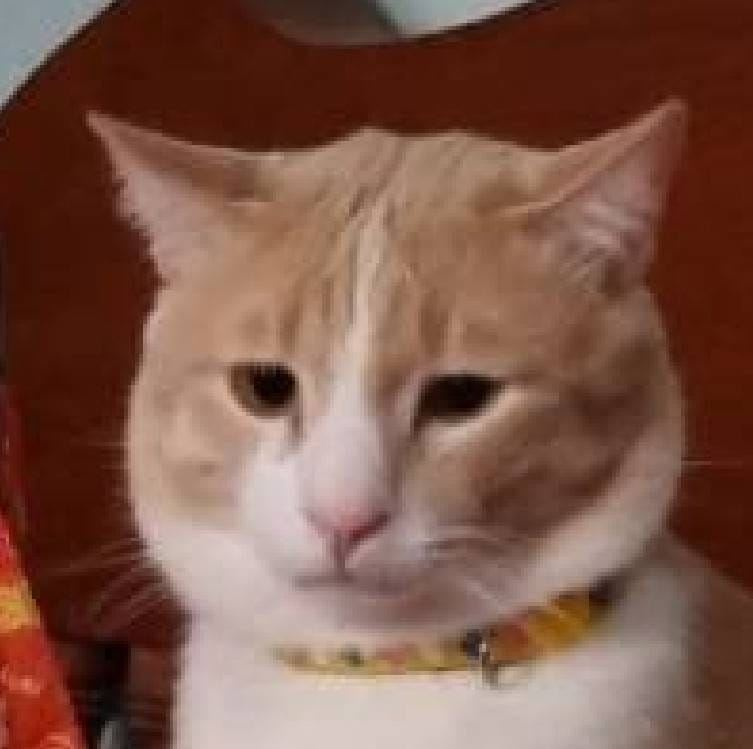
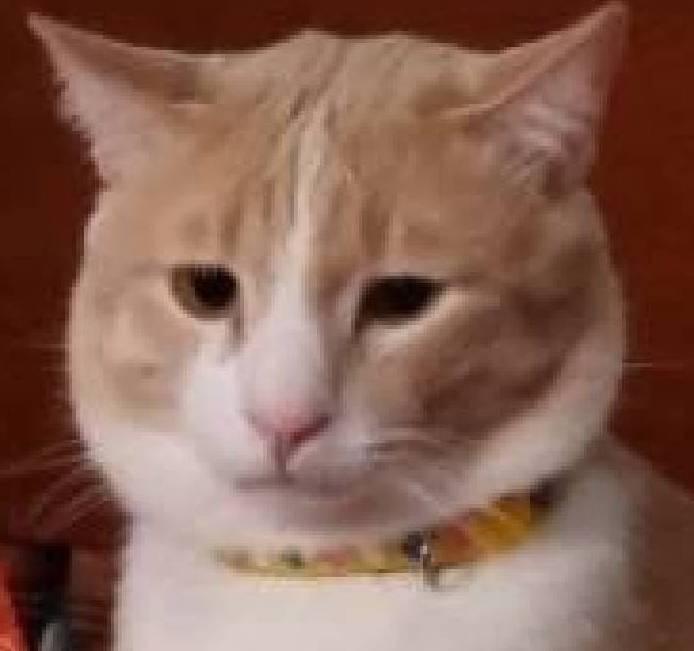
Change cat images on mobile and fix wrong responsive

diff --git a/css/styles.css b/css/styles.css
@@ -1011,14 +1011,15 @@ footer {
         height: 100vh;
         min-height: 350px;
         max-height: 350px;
-        background: url(../images/sad-cat-2.png);
+        background: url(../images/sad-cat.jpg);
         background-size: cover;
         padding: 15px;
         overflow: hidden
     }
     #lead-content h1 {
+
         font-size: 1.75em;
-        margin-top: 265px;
+        margin-top: 60%;
     }
 
     #lead-content h2 {
